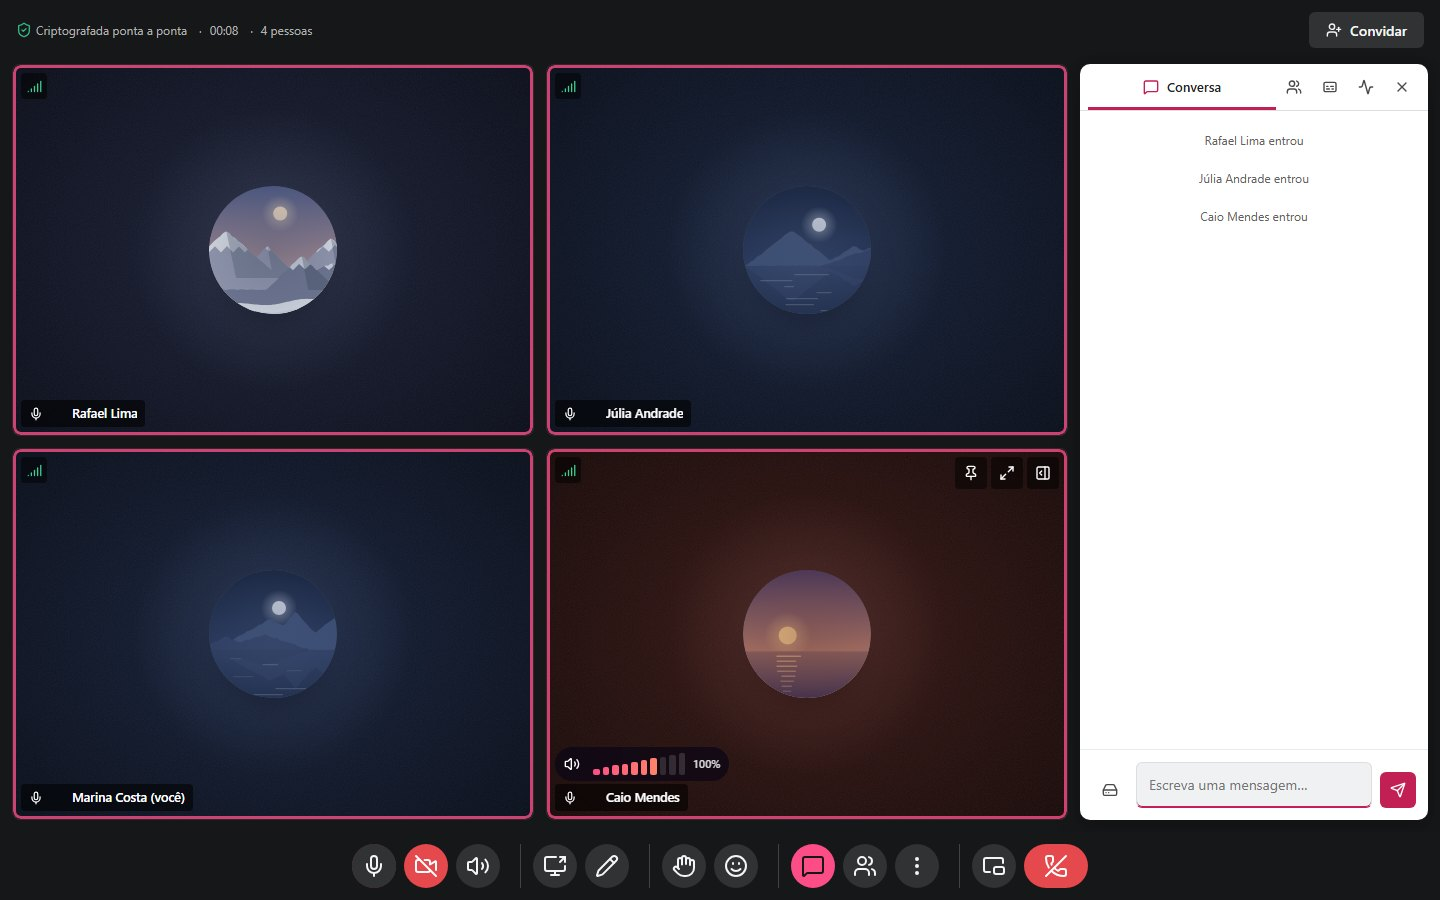
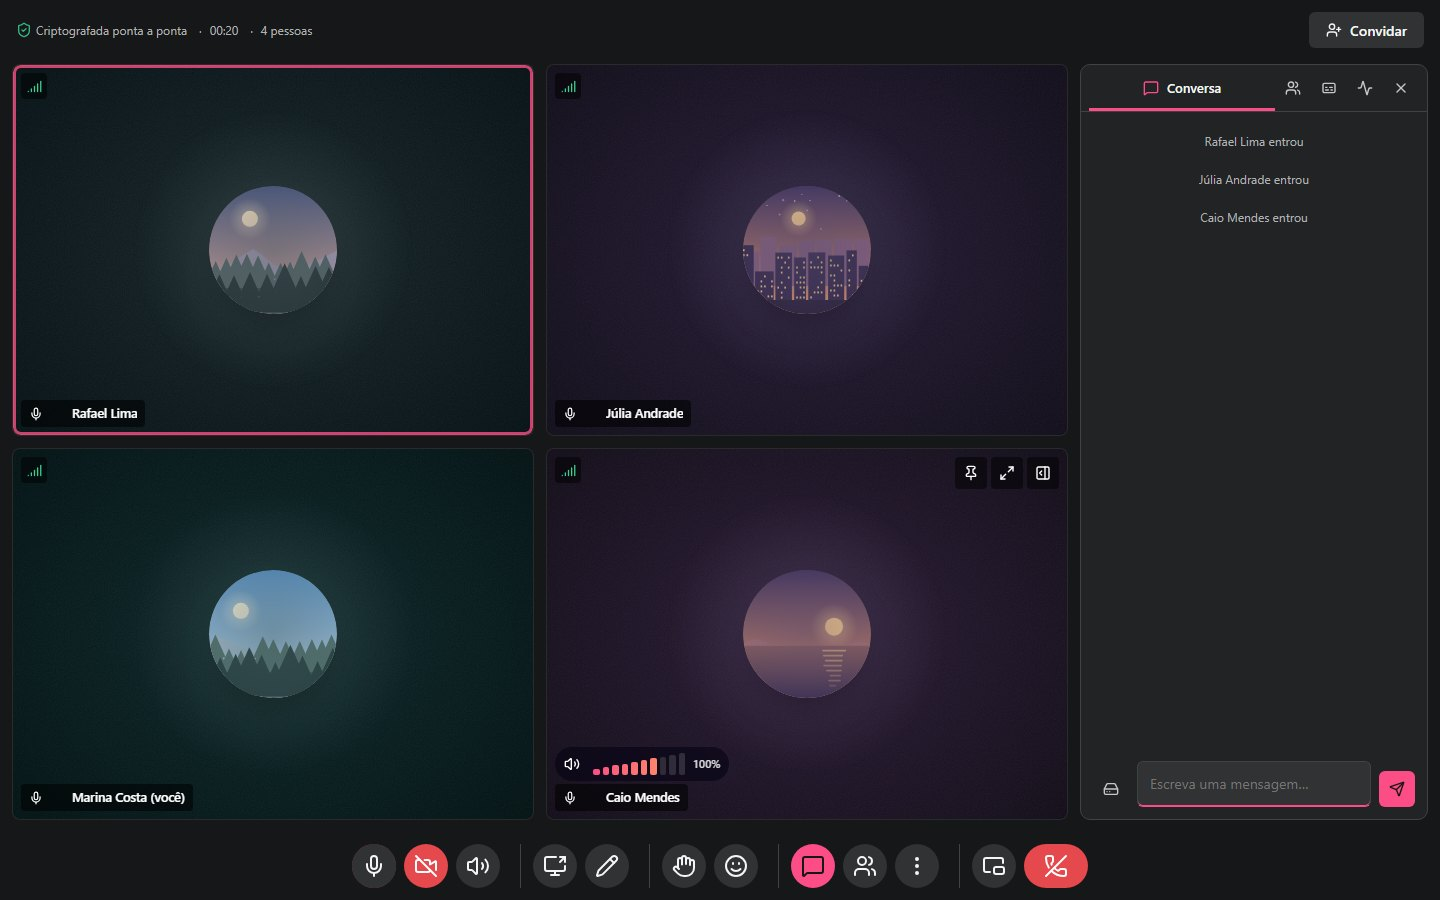
Chamada inteira escura no visual Empresa, com o painel junto
O painel branco ao lado dos rostos ofuscava e partia a tela em dois. Agora
ele recebe os neutros do palco, como o topo, a grade e a barra, e fica um
degrau acima deles. O tema claro vale no início, na antessala e nos diálogos.

diff --git a/public/css/empresa.css b/public/css/empresa.css
@@ -934,14 +934,16 @@
 /* ============================== Chamada ============================== */
 
 /*
- * O palco é escuro nos dois temas, como no Meet: o topo, a grade e a barra
- * de controles recebem os neutros do palco no lugar dos do tema. O painel
- * lateral, irmão da grade, continua na luz do tema, como um cartão por cima.
+ * A chamada é escura nos dois temas: o topo, a grade, a barra de controles
+ * e o painel lateral recebem os neutros do palco no lugar dos do tema. Um
+ * painel branco ao lado dos rostos ofuscava, sobretudo à noite, e partia a
+ * tela em dois programas. O tema claro vale fora da chamada (início,
+ * antessala) e nos diálogos.
  */
 :root[data-visual="empresa"] .stage {
   background: var(--palco);
 }
-:root[data-visual="empresa"] :is(.topbar, .stage__main, .dock) {
+:root[data-visual="empresa"] :is(.topbar, .stage__main, .dock, .panel) {
   --bg: var(--palco);
   --bg-elevated: var(--palco-elevado);
   --surface: var(--palco-superficie);
@@ -1132,13 +1134,13 @@
   color: var(--accent-text);
 }
 
-/* -- painel lateral: um cartão flutuando no palco, abas com sublinhado -- */
+/* -- painel lateral: um cartão escuro no palco, um degrau acima dele -- */
 :root[data-visual="empresa"] .panel {
   margin: var(--sp-3) var(--sp-3) var(--sp-3) 0;
-  border: 0;
+  border: 1px solid var(--palco-borda);
   border-radius: var(--radius-xl);
-  background: var(--bg-elevated);
-  box-shadow: var(--shadow-lg);
+  background: var(--palco-elevado);
+  box-shadow: none;
   overflow: hidden;
 }
 :root[data-visual="empresa"] .panel__tabs {

diff --git a/docs/release/v3.16.0.md b/docs/release/v3.16.0.md
@@ -17,7 +17,7 @@ A troca vale na hora, sem recarregar. A paleta e o tema claro ou escuro continua
 
 - **Tela inicial**: um cartão com **Nova reunião** e **Entrar com código** lado a lado, e a lista das reuniões ao vivo embaixo.
 - **Antes de entrar**: um cartão só, com a câmera grande à esquerda e o nome, os aparelhos e o avatar à direita.
-- **Na chamada**: o fundo é escuro mesmo no tema claro, como no Meet. Os botões são redondos e ficam vermelhos quando o microfone ou a câmera estão desligados. A conversa e a lista de pessoas abrem num cartão ao lado.
+- **Na chamada**: tudo fica escuro, mesmo no tema claro, para os rostos serem o que se vê; o tema claro vale no início, na antessala e nos diálogos. Os botões são redondos e ficam vermelhos quando o microfone ou a câmera estão desligados. A conversa e a lista de pessoas abrem num cartão ao lado.
 - **Barra enxuta**: ficam à vista microfone, câmera, som, tela, quadro, mão, reações, conversa e pessoas. Jogos, legendas, gravação, qualidade, layout e configurações moram no botão **Mais** e voltam à barra enquanto estão ligados. Os atalhos de teclado continuam valendo.
 - Quem fala ganha um contorno firme na cor de destaque.
 - O visual Empresa abre direto, sem a vinheta do logotipo.

diff --git a/docs/wiki/Novidades-3.16.md b/docs/wiki/Novidades-3.16.md
@@ -12,7 +12,8 @@ troca vale na hora, sem recarregar, e fica guardada neste computador.
   reuniões ao vivo numa lista embaixo.
 - **Antes de entrar**: a câmera grande à esquerda; nome, aparelhos e avatar à
   direita.
-- **Na chamada**: o palco é escuro também no tema claro. Os botões são
+- **Na chamada**: tudo fica escuro, inclusive a conversa, também no tema
+  claro. Os botões são
   redondos e ficam vermelhos quando o microfone ou a câmera estão desligados.
   A conversa e as pessoas abrem num cartão ao lado.
 - **Barra enxuta**: jogos, legendas, gravação, qualidade, layout e
